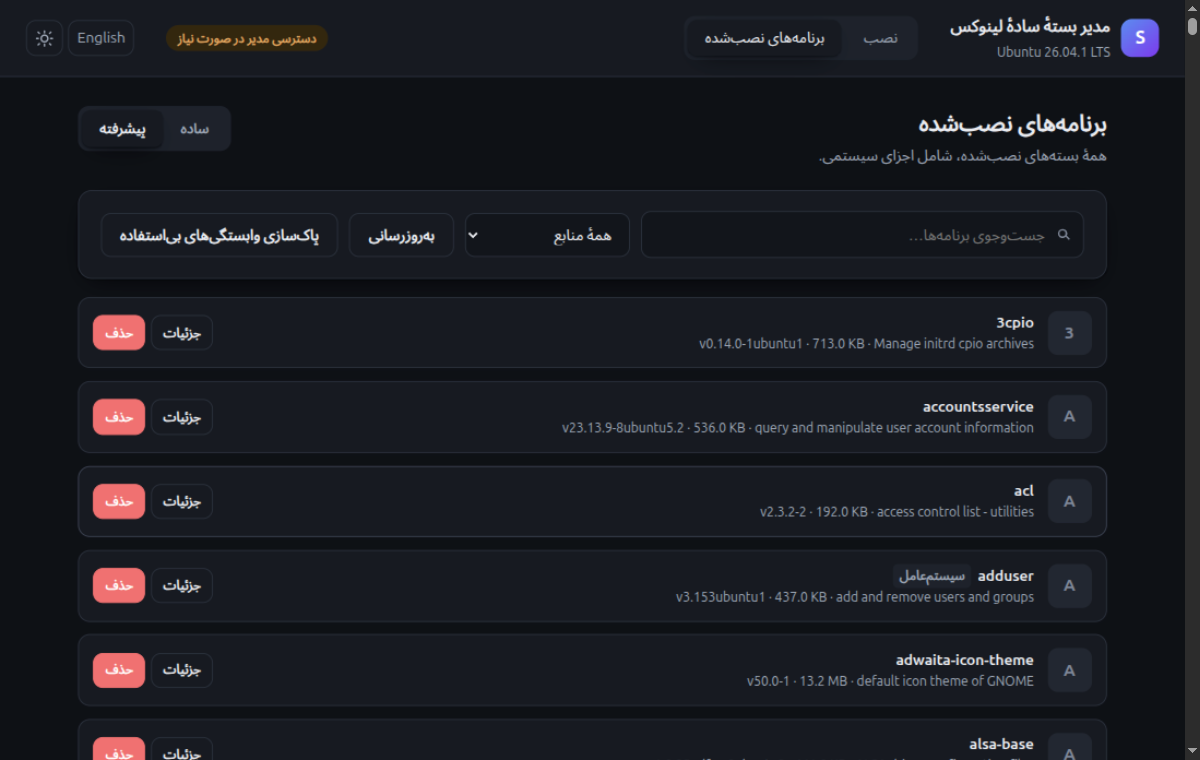
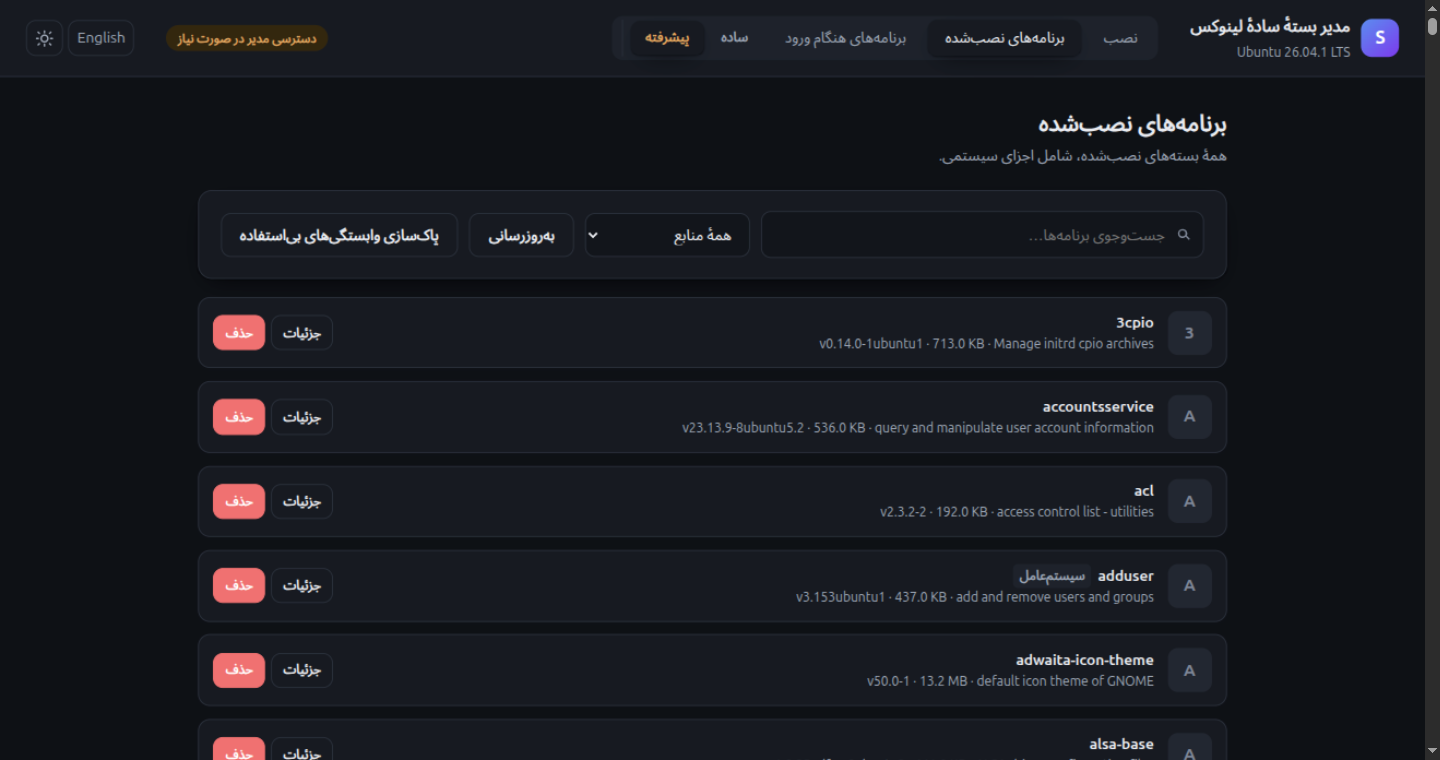
update docs for global mode and ownership

diff --git a/docs/index.html b/docs/index.html
@@ -146,43 +146,71 @@
         </ul>
       </div>
       <figure class="shot">
-        <img data-shot="install" alt="" width="1200" height="760" loading="lazy">
+        <img data-shot="install" alt="" width="1440" height="760" loading="lazy">
       </figure>
     </article>
 
     <article class="feature flip">
       <div class="feature-text">
         <h3>
-          <span class="t-en">See everything you have installed</span>
-          <span class="t-fa">همهٔ برنامههای نصبشده را یکجا ببینید</span>
+          <span class="t-en">The apps you installed, at a glance</span>
+          <span class="t-fa">برنامههایی که خودتان نصب کردهاید، یکجور</span>
         </h3>
         <p>
-          <span class="t-en">The same names and icons as your applications menu — not cryptic
-            package names. Search the list, launch a program, read its details, or remove it.</span>
-          <span class="t-fa">همان نام و آیکونی را میبینید که در منوی برنامههاست؛ نه نامهای فنی و نامفهوم بستهها.
-            فهرست را جستوجو کنید، برنامهای را اجرا کنید، جزئیاتش را ببینید یا حذفش کنید.</span>
+          <span class="t-en">Simple Mode lists only the programs you put on this computer yourself —
+            same names and icons as your applications menu. Search the list, launch a program, read
+            its details, or remove it.</span>
+          <span class="t-fa">حالت ساده فقط برنامههایی را فهرست میکند که خودتان روی این کامپیوتر گذاشتهاید —
+            با همان نام و آیکون منوی برنامهها. فهرست را جستوجو کنید، برنامهای را اجرا کنید،
+            جزئیاتش را ببینید یا حذفش کنید.</span>
         </p>
       </div>
       <figure class="shot">
-        <img data-shot="apps" alt="" width="1200" height="760" loading="lazy">
+        <img data-shot="apps" alt="" width="1440" height="760" loading="lazy">
       </figure>
     </article>
 
     <article class="feature">
       <div class="feature-text">
         <h3>
+          <span class="t-en">What starts with your session</span>
+          <span class="t-fa">چه برنامههایی با نشست راهاندازی میشوند</span>
+        </h3>
+        <p>
+          <span class="t-en">The Startup Apps tab lists the programs your computer starts by itself —
+            the ones packages installed and the ones you added. In Simple Mode you manage your own
+            entries; Advanced Mode shows the packaged ones too, where each can be switched off
+            without touching a system file.</span>
+          <span class="t-fa">تب «برنامههای هنگام ورود» برنامههایی را فهرست میکند که کامپیوتر بهتنهایی
+            اجرا میکند — هم آنچه بستهها نصب کردهاند و هم آنچه شما افزودهاید. در حالت ساده موارد
+            خودتان را مدیریت میکنید؛ حالت پیشرفته موارد بستههای سیستم را هم نشان میدهد و هرکدام
+            را میتوان بدون دستزدن به فایلهای سیستمی خاموش کرد.</span>
+        </p>
+      </div>
+      <figure class="shot">
+        <img data-shot="startup" alt="" width="1440" height="760" loading="lazy">
+      </figure>
+    </article>
+
+    <article class="feature flip">
+      <div class="feature-text">
+        <h3>
           <span class="t-en">Advanced mode, when you want more</span>
           <span class="t-fa">حالت پیشرفته، برای جزئیات بیشتر</span>
         </h3>
         <p>
-          <span class="t-en">One click reveals every installed package — libraries, drivers and
-            system components included — with the details a package manager would show you.</span>
-          <span class="t-fa">با یک کلیک همهٔ بستههای نصبشده، از کتابخانهها و درایورها تا اجزای سیستمی،
-            با همان جزئیاتی که یک مدیر بسته نشان میدهد در دسترس شما قرار میگیرند.</span>
+          <span class="t-en">A switch in the top bar, next to the tabs, moves the whole app between the
+            two views. In Advanced, Installed Apps lists everything the system has — libraries,
+            drivers and system components included — and Startup Apps adds the entries packages
+            installed. One click back and Simple is where it was.</span>
+          <span class="t-fa">کلید کوچکی در نوار بالا، کنار تبها، کل برنامه را بین دو حالت جابهجا میکند.
+            در حالت پیشرفته «برنامههای نصبشده» همهٔ چیزهایی را که سیستم دارد فهرست میکند — از
+            کتابخانهها و درایورها تا اجزای سیستمی — و «برنامههای هنگام ورود» موارد بستههای
+            سیستم را هم میافزاید. با یک کلیک، حالت ساده بهجای خود برمیگردد.</span>
         </p>
       </div>
       <figure class="shot">
-        <img data-shot="advanced" alt="" width="1200" height="760" loading="lazy">
+        <img data-shot="advanced" alt="" width="1440" height="760" loading="lazy">
       </figure>
     </article>
 
@@ -202,7 +230,7 @@
         </p>
       </div>
       <figure class="shot">
-        <img data-shot="warning" alt="" width="1200" height="760" loading="lazy">
+        <img data-shot="warning" alt="" width="1440" height="760" loading="lazy">
       </figure>
     </article>
   </section>

diff --git a/docs/site.js b/docs/site.js
@@ -54,8 +54,12 @@
       fa: 'صفحهٔ نصب: کادری برای رها کردن فایل دانلودشده و فهرستی از قالبهایی که SLPM میتواند نصب کند.',
     },
     apps: {
-      en: 'The Installed Apps page in Simple mode, showing everyday applications with their icons, versions and Launch, Details and Remove buttons.',
-      fa: 'صفحهٔ برنامههای نصبشده در حالت ساده، با آیکون و نسخهٔ برنامههای روزمره و دکمههای اجرا، جزئیات و حذف.',
+      en: 'The Installed Apps page in Simple mode, showing only the applications the user installed themselves, with the Simple/Advanced switch in the top bar.',
+      fa: 'صفحهٔ برنامههای نصبشده در حالت ساده که فقط برنامههای نصبشده توسط کاربر را نشان میدهد و کلید ساده/پیشرفته در نوار بالایی است.',
+    },
+    startup: {
+      en: 'The Startup Apps page in Advanced mode, listing the programs that start with the session — the user’s own entries and the ones packages installed — with a toggle for each.',
+      fa: 'صفحهٔ برنامههای هنگام ورود در حالت پیشرفته که برنامههای راهاندازیشده با نشست را فهرست میکند — هم موارد کاربر و هم موارد بستههای سیستم — و برای هرکدام کلید خاموش/روشن دارد.',
     },
     advanced: {
       en: 'The Installed Apps page in Advanced mode, listing every installed package including libraries and system components.',

diff --git a/ARCHITECTURE.md b/ARCHITECTURE.md
@@ -10,12 +10,13 @@ Browser
   └─ JSON requests
        ↓
 Flask application (`app.py`)
-  ├─ language/theme and request context
-  ├─ route validation and job locking
+  ├─ language/theme/mode and request context
+  ├─ route validation, job locking, mode enforcement
   └─ domain modules (`slpm/`)
        ├─ package managers: apt/dpkg, Flatpak, Snap
        ├─ local installers: AppImage, archives, scripts
        ├─ desktop-entry integration
+       ├─ ownership classification (user-installed vs pre-installed)
        └─ subprocess and privileged-command boundary
 ```
 
@@ -24,7 +25,7 @@ The application does not use a database or a remote service. Package-manager com
 ## Runtime flow
 
 1. `app.py` creates the Flask application and registers request handlers.
-2. A request selects its language from `?lang=` or a browser cookie; theme is also read from a cookie.
+2. A request selects its language from `?lang=` or a browser cookie; theme and view mode (`simple`/`advanced`, default `simple`) are also read from cookies.
 3. `before_request` stores the normalized language in a `ContextVar`, making translations safe when requests overlap.
 4. HTML routes render `templates/`; browser code in `static/js/` calls JSON endpoints for lists, detection and operations.
 5. A route validates user input and delegates to the relevant module under `slpm/`.
@@ -38,9 +39,10 @@ The application does not use a database or a remote service. Package-manager com
 - `slpm/apt.py`: reads apt/dpkg data and handles Debian package installation and removal.
 - `slpm/flatpak_snap.py`: discovers installed Flatpak/Snap applications and performs their package operations.
 - `slpm/appimage.py`: validates AppImages, places them under `~/Applications` and prepares menu launchers.
-- `slpm/desktop.py`: parses `.desktop` files, filters entries for Simple mode and creates/updates launchers.
-- `slpm/apps.py`: combines desktop entries and package-manager data into Simple and Advanced views.
-- `slpm/autostart.py`: reads the session's autostart entries, adds one for an installed application, and switches an entry off.
+- `slpm/desktop.py`: parses `.desktop` files, filters entries by visibility and creates/updates launchers.
+- `slpm/apps.py`: combines desktop entries and package-manager data, then keeps or drops each row according to its ownership verdict and the requested mode.
+- `slpm/ownership.py`: decides, for each app and startup entry, whether the user installed it or it came with the system. See "Simple and Advanced modes".
+- `slpm/autostart.py`: reads the session's autostart entries, marks each one user-owned or packaged, adds an entry for an installed application, and switches one off.
 - `slpm/proc.py`: the general subprocess boundary; uses argument arrays, fixed timeouts, environment normalization and structured `(return code, stdout, stderr)` results.
 - `slpm/helper.py`: short-lived Unix-socket bridge for privileged operations started through polkit or sudo.
 - `slpm/i18n.py`: English/Persian translations, locale normalization, interpolation and text direction.
@@ -84,6 +86,29 @@ The tab performs no privileged work and never launches a program.
 
 Supported archives are extracted below `~/.local/share/slpm/apps/`. SLPM searches the extracted tree for launchable programs or desktop entries and asks the user to choose when there is more than one candidate. `.run` and `.sh` files are not executed as arbitrary installation commands; they are treated as entries that can be registered.
 
+## Simple and Advanced modes
+
+The mode is a browser preference, like language and theme: the `slpm_mode` cookie, rendered onto `<html data-mode>`, remembered across visits. `simple` is the default — Advanced is entered, never assumed — and the first entry into it on a page asks for confirmation, because that view can remove system components. The switch sits in the top bar next to the tabs, applies to the whole application, and is shared by the Installed Apps and Startup Apps tabs (the Install tab ignores it).
+
+What each mode shows is decided server-side, so the distinction cannot be bypassed by calling the API directly:
+
+- `/api/apps` and `/api/startup` return only user-owned rows in Simple mode.
+- The package-database endpoints (`/api/packages*`) answer 403 in Simple mode.
+- `/api/uninstall` re-derives the target's ownership from the Simple list and refuses pre-installed apps; startup toggle/remove refuse entries that are not user-owned.
+
+### How ownership is classified
+
+The question — "did the user put this on the machine, or did it come with the OS?" — is answered from the records the package managers keep themselves, in `slpm/ownership.py`:
+
+- **dpkg/apt**: the first date a package appears in `/var/log/dpkg.log` (including the rotated `.1`–`.3` files) is when it arrived. The earliest date in the log is the OS install *only* when the log demonstrably reaches back to it: the oldest kept file (`.3`) must be absent and the log's first line must contain the distribution installer's marker (`startup archives install`). Without that anchor — for example after the log has rotated past the OS install — every answer is "unknown" rather than a guess, and unknown entries are treated as not user-installed. A few days of slack after the anchor absorb a long installer run.
+- **snap**: `/var/lib/snapd/seed/seed.yaml` lists the snaps baked into the system image; absence from the seed means installed afterwards.
+- **Flatpak**: the creation time of the per-app deployment directory, compared to the OS install time.
+- **autostart**: a user file with no packaged counterpart of the same name is the user's; the same name as a packaged entry is an override and follows the package; the `slpm-` prefix marks entries SLPM itself added.
+
+For `.desktop` entries the owning package is found from the `Exec=` command via `dpkg-query -S` (resolving PATH lookups and symlinks); when the command cannot be traced (empty `Exec=`, `TryExec` binary absent), the package that ships the `.desktop` file itself is the same evidence. Snap and Flatpak entries are decided by their own managers before any dpkg lookup.
+
+The deliberately rejected signals: which directory the `.desktop` file sits in (`apt install ./x.deb` lands in the same place as a base package), the mtime of `/var/lib/dpkg/info/*.list` (rewritten by every upgrade), and menu visibility.
+
 ## HTTP and frontend layers
 
 Flask serves the page templates and static assets. JSON endpoints cover browser preferences, installed-application lists, file-type detection, installation, launch, removal and operation status. The frontend submits paths and explicit choices back to the server; the server repeats validation rather than trusting client-side state.
@@ -98,7 +123,7 @@ The helper accepts only explicitly allowlisted package-manager calls, validates 
 
 ## State, files and concurrency
 
-Language and theme are browser cookies. The current request language is held in a `ContextVar`, so concurrent requests do not overwrite one another. Installation/removal jobs are protected by a process-local lock and expose active-job status to the UI.
+Language, theme and view mode are browser cookies. The current request language is held in a `ContextVar`, so concurrent requests do not overwrite one another. Installation/removal jobs are protected by a process-local lock and expose active-job status to the UI.
 
 - User launchers and extracted archives: `~/.local/share/slpm/`
 - Startup entries added or overridden by hand: `~/.config/autostart/`
@@ -110,7 +135,7 @@ Because state is local and the lock is process-local, this architecture is inten
 
 ## Verification and maintenance
 
-`selftest.py` exercises desktop-entry parsing, Simple/Advanced filtering, package safety classification, archive extraction, path-choice validation, startup-entry flags and overrides, privileged-command allowlisting, command probing, human-readable sizes and translations. It avoids actually installing or removing packages. Run it after changes with:
+`selftest.py` exercises desktop-entry parsing, Simple/Advanced filtering, ownership classification (synthetic dpkg logs, the installer marker, rotation past the anchor, and every real entry on the running machine), package safety classification, archive extraction, path-choice validation, startup-entry flags and overrides, privileged-command allowlisting, command probing, human-readable sizes and translations. It avoids actually installing or removing packages. Run it after changes with:
 
 ```bash
 source .venv/bin/activate

diff --git a/README.fa.md b/README.fa.md
@@ -8,7 +8,11 @@
 
 ## امکانات
 
-- حالت ساده و پیشرفته برای مشاهدهٔ برنامهها و بستههای نصبشده
+- حالتهای ساده و پیشرفته، با کلیدی در نوار بالا کنار تبها:
+  - **حالت ساده** (حالت پیشفرض) در هر دو تب «برنامههای نصبشده» و «برنامههای هنگام ورود» فقط مواردی را نشان میدهد که خودتان نصب کردهاید.
+  - **حالت پیشرفته** همهٔ چیزهایی که سیستم دارد — برنامههای از پیش نصبشده، اجزای سیستمی و موارد هنگامورودِ بستهها — را نشان میدهد و امکان دیدن و حذف آنها را هم میدهد.
+  - تب «نصب» در هر دو حالت یکسان است.
+- تشخیص برنامههای کاربری از از پیش نصبشدهها بر پایهٔ شواهد است: SLPM گزارشهای خودِ مدیران بسته را میخواند — اولین تاریخی که هر بسته در لاگ dpkg ظاهر میشود در برابر تاریخ نصب سیستمعامل، فایل seed اسنپها و زمان نصب Flatpakها. محل فایل و تاریخ فایلها عمداً استفاده نمیشوند، چون میتوانند گمراهکننده باشند.
 - تب «برنامههای هنگام ورود» برای دیدن برنامههایی که خودکار اجرا میشوند، با افزودن و حذف یککلیکی
 - پشتیبانی از `.deb`، AppImage، Flatpak، آرشیوها و فایلهای نصب
 - شناسایی خودکار ابزارهای `apt`، Flatpak و Snap
@@ -49,7 +53,8 @@ python selftest.py
 ```text
 app.py              نقطهٔ ورود برنامهٔ Flask
 slpm/               منطق بستهها و اتصال به میزکار
-                    (autostart.py مدیریت موارد هنگام ورود)
+                    (ownership.py مشخص میکند کدام نرمافزار را کاربر نصب
+                    کرده و کدام همراه سیستم بوده است)
 templates/          قالبهای HTML
 static/             فایلهای CSS و JavaScript
 docs/               وبسایت GitHub Pages

diff --git a/README.md b/README.md
@@ -8,7 +8,11 @@ A simple local web app for installing, viewing, launching, and removing Linux so
 
 ## Features
 
-- Simple and Advanced views for installed applications and packages
+- Simple and Advanced modes, switched from a control in the top bar next to the tabs:
+  - **Simple Mode** (the default) lists only the apps you installed yourself, in both the Installed Apps and Startup Apps tabs.
+  - **Advanced Mode** shows everything the system has — pre-installed applications, system components, packaged startup entries — where they can also be seen and removed.
+  - The Install tab is identical in both modes.
+- Telling your apps from pre-installed ones is evidence-based: SLPM reads the package managers' own records — the date each package first appears in the dpkg log, compared against the operating system's install date, the snap seed file, and Flatpak install times. Directory location and file dates are deliberately not used, because they can lie.
 - A Startup Apps tab that lists what a session starts by itself, with one-click adding and removal
 - Support for `.deb`, AppImage, Flatpak references, archives, and installer files
 - Automatic detection of available `apt`, Flatpak, and Snap tools
@@ -49,7 +53,8 @@ python selftest.py
 ```text
 app.py              Flask application entry point
 slpm/               Package and desktop-integration logic
-                    (autostart.py manages the startup-program entries)
+                    (ownership.py decides which software the user installed
+                    and which came with the system)
 templates/          HTML templates
 static/             CSS and JavaScript assets
 docs/               GitHub Pages website
